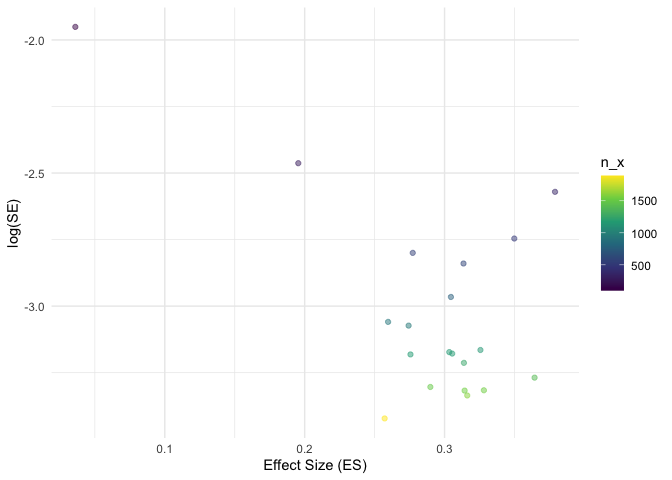
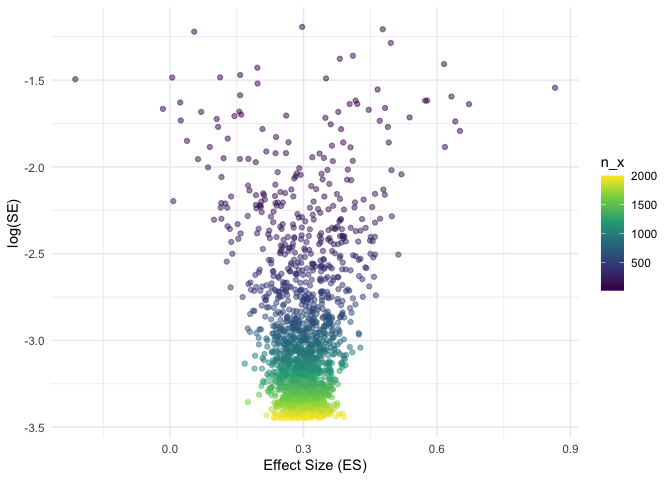
updating readme

diff --git a/README.md b/README.md
@@ -36,7 +36,7 @@ between study heterogenity ($\tau$).
 ``` r
 sim <- sim_meta(min_obs = 20,
          max_obs = 2000,
-         n_studies = 20,
+         n_studies = 1500,
          es_true = 0.3,
          es = 'SMD',
          fixed = TRUE,
@@ -45,14 +45,14 @@ sim <- sim_meta(min_obs = 20,
 
 head(sim$data_aggr)
 #> # A tibble: 6 × 10
-#>   study hedges_g     se mean_x  mean_y  sd_x  sd_y   n_x   n_y      vi
-#>   <int>    <dbl>  <dbl>  <dbl>   <dbl> <dbl> <dbl> <int> <int>   <dbl>
-#> 1     1   0.290  0.0367  0.315  0.0235 1.01  0.998  1497  1497 0.00135
-#> 2     2   0.303  0.0419  0.274 -0.0308 0.999 1.01   1153  1153 0.00175
-#> 3     3   0.316  0.0356  0.282 -0.0336 0.974 1.02   1599  1599 0.00127
-#> 4     4   0.257  0.0326  0.310  0.0531 1.00  0.991  1892  1892 0.00107
-#> 5     5   0.379  0.0765  0.337 -0.0251 0.942 0.968   348   348 0.00585
-#> 6     6   0.0360 0.142   0.210  0.173  0.965 1.06     99    99 0.0202
+#>   study hedges_g     se mean_x   mean_y  sd_x  sd_y   n_x   n_y      vi
+#>   <int>    <dbl>  <dbl>  <dbl>    <dbl> <dbl> <dbl> <int> <int>   <dbl>
+#> 1     1   0.295  0.0471  0.289 -0.00147 0.975 0.993   911   911 0.00222
+#> 2     2   0.0699 0.186   0.324  0.259   0.889 0.962    58    58 0.0345 
+#> 3     3   0.386  0.0438  0.367 -0.0152  0.994 0.985  1061  1061 0.00192
+#> 4     4   0.337  0.0530  0.325 -0.0201  1.02  1.03    723   723 0.00281
+#> 5     5   0.302  0.0425  0.324  0.0270  0.984 0.976  1118  1118 0.00181
+#> 6     6   0.378  0.0716  0.370 -0.0204  0.992 1.07    397   397 0.00513
 ```
 
 # Effect size and standard error
@@ -105,29 +105,29 @@ summary(metaanalysis)
 #> Review:     Meta-Analysis fixed-effect
 #> 
 #>       SMD            95%-CI %W(common)
-#> 1  0.2898 [ 0.2178; 0.3619]       16.7
-#> 2  0.3034 [ 0.2213; 0.3855]       12.8
-#> 3  0.3162 [ 0.2465; 0.3860]       17.8
-#> 4  0.2572 [ 0.1932; 0.3212]       21.1
-#> 5  0.3790 [ 0.2291; 0.5289]        3.8
-#> 6  0.0360 [-0.2426; 0.3146]        1.1
-#> 7  0.3045 [ 0.2036; 0.4055]        8.5
-#> 8  0.3499 [ 0.2241; 0.4756]        5.5
-#> 9  0.3135 [ 0.1990; 0.4281]        6.6
-#> 10 0.2773 [ 0.1581; 0.3964]        6.1
+#> 1  0.2952 [ 0.2028; 0.3875]       12.5
+#> 2  0.0699 [-0.2942; 0.4340]        0.8
+#> 3  0.3863 [ 0.3004; 0.4721]       14.5
+#> 4  0.3372 [ 0.2334; 0.4410]        9.9
+#> 5  0.3024 [ 0.2190; 0.3858]       15.4
+#> 6  0.3783 [ 0.2379; 0.5186]        5.4
+#> 7  0.3535 [ 0.2130; 0.4941]        5.4
+#> 8  0.2563 [ 0.1692; 0.3434]       14.1
+#> 9  0.2730 [ 0.1895; 0.3564]       15.3
+#> 10 0.2169 [ 0.0912; 0.3427]        6.8
 #> 
 #> Number of studies: k = 10
 #> 
 #>                        SMD           95%-CI     z  p-value
-#> Common effect model 0.2953 [0.2659; 0.3247] 19.68 < 0.0001
+#> Common effect model 0.3053 [0.2726; 0.3380] 18.32 < 0.0001
 #> 
 #> Quantifying heterogeneity:
-#>  tau^2 < 0.0001 [0.0000; 0.0135]; tau = 0.0004 [0.0000; 0.1163]
-#>  I^2 = 0.0% [0.0%; 62.4%]; H = 1.00 [1.00; 1.63]
+#>  tau^2 = 0.0004 [0.0000; 0.0137]; tau = 0.0189 [0.0000; 0.1169]
+#>  I^2 = 15.2% [0.0%; 56.5%]; H = 1.09 [1.00; 1.52]
 #> 
 #> Test of heterogeneity:
-#>     Q d.f. p-value
-#>  7.23    9  0.6129
+#>      Q d.f. p-value
+#>  10.61    9  0.3032
 #> 
 #> Details on meta-analytical method:
 #> - Inverse variance method
@@ -159,12 +159,12 @@ head(sim$data_aggr)
 #> # A tibble: 6 × 10
 #>   study hedges_g     se mean_x   mean_y  sd_x  sd_y   n_x   n_y      vi
 #>   <int>    <dbl>  <dbl>  <dbl>    <dbl> <dbl> <dbl> <int> <int>   <dbl>
-#> 1     1    0.691 0.0374  0.703  0.00805 1.02  0.993  1518  1518 0.00140
-#> 2     2    0.749 0.0984  0.660 -0.0557  0.942 0.967   221   221 0.00968
-#> 3     3    0.790 0.0523  0.710 -0.0910  1.01  1.01    788   788 0.00274
-#> 4     4    0.534 0.0325  0.667  0.137   0.978 1.01   1963  1963 0.00106
-#> 5     5    0.679 0.0404  0.658 -0.0215  1.02  0.976  1299  1299 0.00163
-#> 6     6    0.733 0.0355  0.683 -0.0369  0.972 0.994  1697  1697 0.00126
+#> 1     1    0.732 0.0501  0.658 -0.0807  1.03  0.983   850   850 0.00251
+#> 2     2    0.764 0.0459  0.766 -0.00137 0.974 1.03   1020  1020 0.00210
+#> 3     3    0.681 0.0828  0.559 -0.141   1.02  1.03    309   309 0.00685
+#> 4     4    0.723 0.0347  0.659 -0.0605  0.993 0.997  1772  1772 0.00120
+#> 5     5    0.741 0.0582  0.719 -0.0147  1.00  0.976   631   631 0.00339
+#> 6     6    0.834 0.0379  0.776 -0.0644  0.991 1.02   1512  1512 0.00144
 ```
 
 Run Random-Effects Meta-Analysis
@@ -199,29 +199,29 @@ summary(metaanalysis)
 #> Review:     Meta-Analysis fixed-effect
 #> 
 #>       SMD           95%-CI %W(random)
-#> 1  0.6907 [0.6175; 0.7640]       11.6
-#> 2  0.7490 [0.5561; 0.9419]        5.8
-#> 3  0.7898 [0.6873; 0.8923]       10.0
-#> 4  0.5339 [0.4703; 0.5976]       12.1
-#> 5  0.6789 [0.5998; 0.7580]       11.3
-#> 6  0.7327 [0.6631; 0.8022]       11.8
-#> 7  0.8663 [0.7527; 0.9800]        9.4
-#> 8  0.6534 [0.5620; 0.7448]       10.6
-#> 9  0.8236 [0.7325; 0.9147]       10.7
-#> 10 0.7161 [0.5427; 0.8894]        6.6
+#> 1  0.7316 [0.6334; 0.8298]        9.5
+#> 2  0.7644 [0.6745; 0.8543]       10.5
+#> 3  0.6815 [0.5193; 0.8437]        4.5
+#> 4  0.7232 [0.6552; 0.7912]       14.0
+#> 5  0.7412 [0.6272; 0.8553]        7.8
+#> 6  0.8342 [0.7599; 0.9085]       12.9
+#> 7  0.7267 [0.6626; 0.7908]       14.8
+#> 8  0.6378 [0.4853; 0.7903]        5.0
+#> 9  0.8427 [0.7589; 0.9265]       11.4
+#> 10 0.6830 [0.5855; 0.7805]        9.6
 #> 
 #> Number of studies: k = 10
 #> 
 #>                              SMD           95%-CI     t  p-value
-#> Random effects model (HK) 0.7170 [0.6468; 0.7872] 23.10 < 0.0001
+#> Random effects model (HK) 0.7482 [0.7042; 0.7922] 38.46 < 0.0001
 #> 
 #> Quantifying heterogeneity:
-#>  tau^2 = 0.0069 [0.0023; 0.0274]; tau = 0.0830 [0.0482; 0.1656]
-#>  I^2 = 80.7% [65.5%; 89.2%]; H = 2.28 [1.70; 3.05]
+#>  tau^2 = 0.0015 [0.0000; 0.0109]; tau = 0.0387 [0.0000; 0.1042]
+#>  I^2 = 42.2% [0.0%; 72.3%]; H = 1.31 [1.00; 1.90]
 #> 
 #> Test of heterogeneity:
-#>      Q d.f.  p-value
-#>  46.71    9 < 0.0001
+#>      Q d.f. p-value
+#>  15.56    9  0.0766
 #> 
 #> Details on meta-analytical method:
 #> - Inverse variance method
